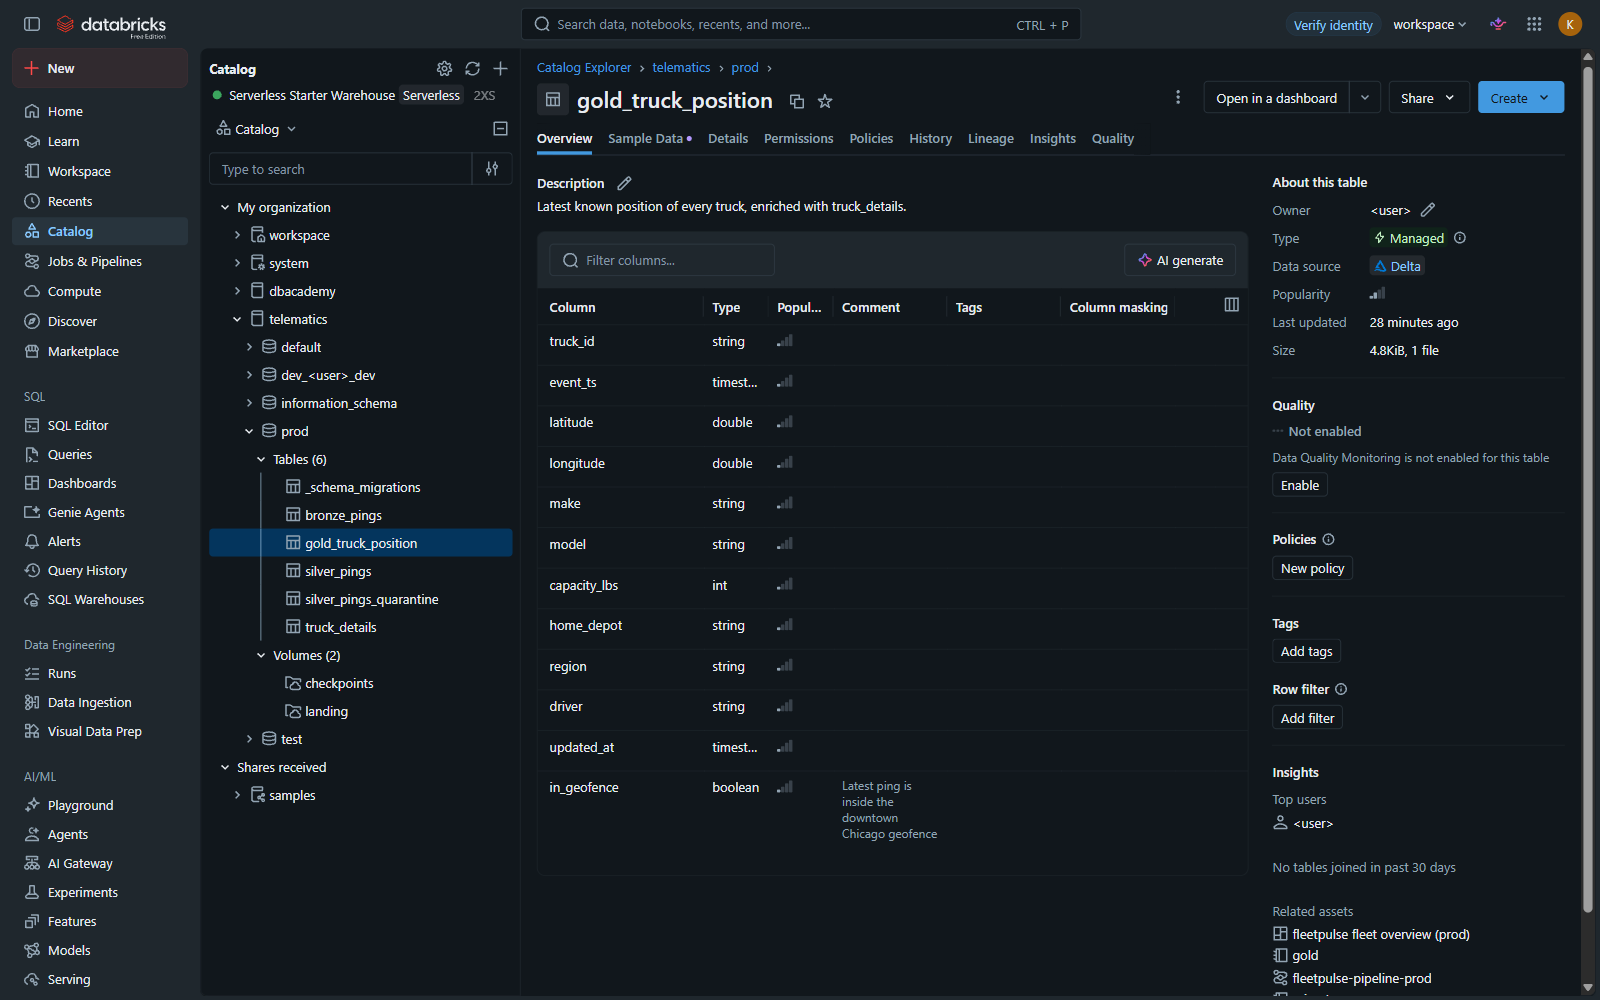
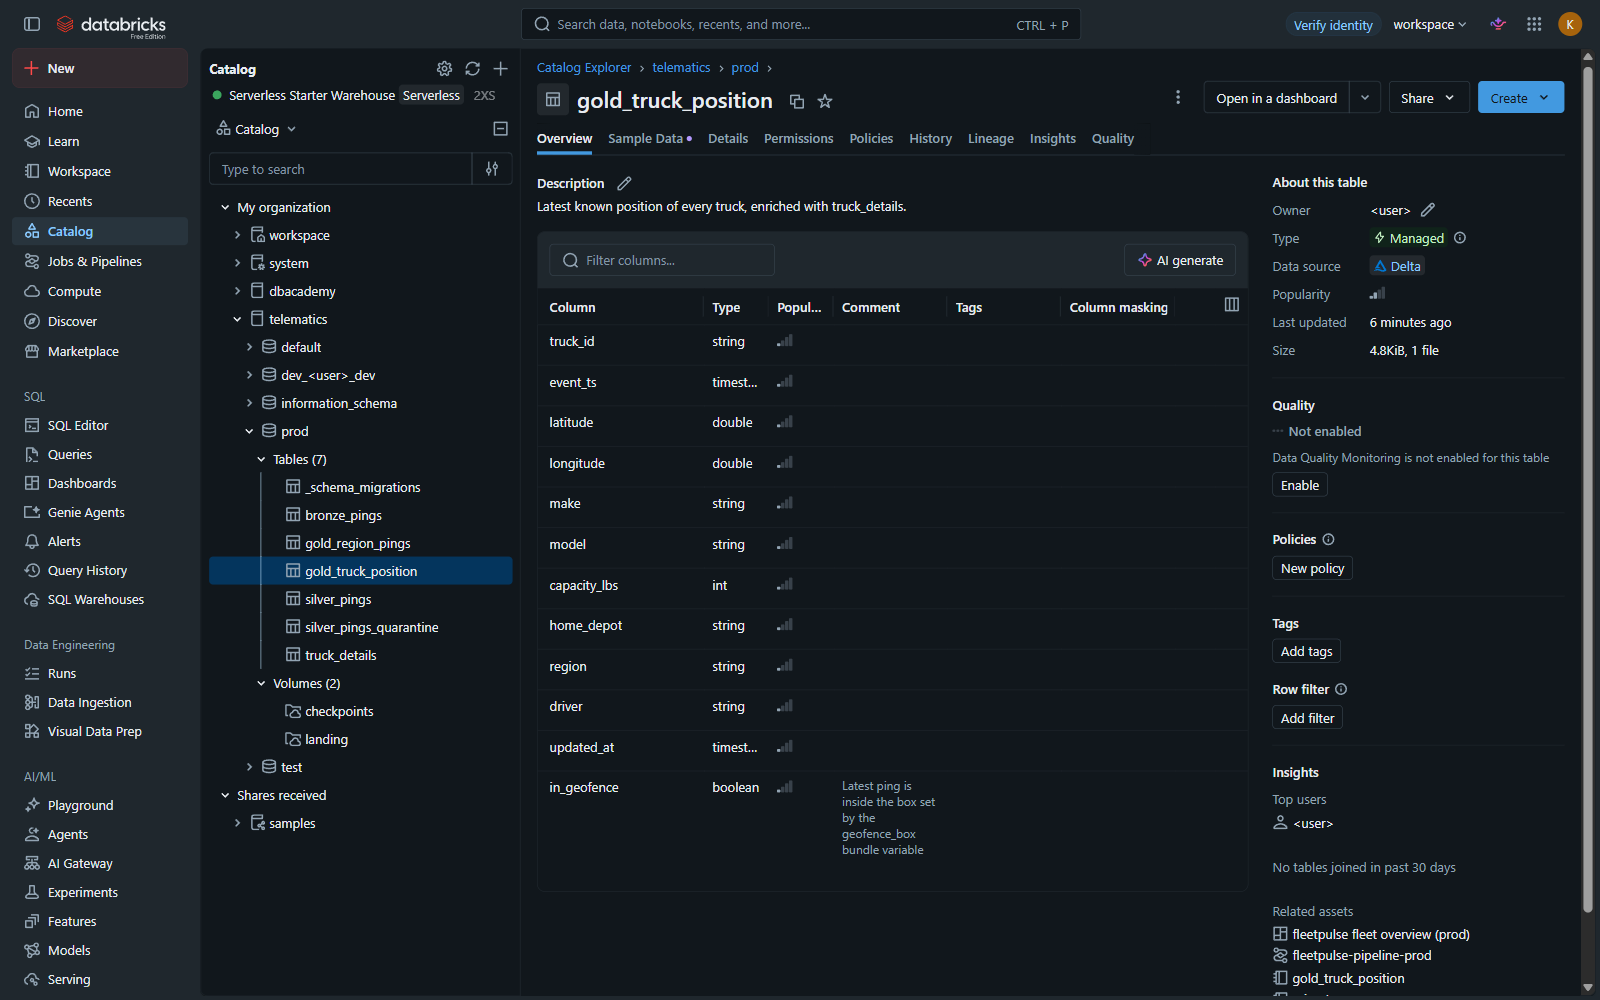
Evidence for V003 and V004, refreshed screenshots
V003 (gold_region_pings) and V004 (in_geofence comment through CI) before/after in every
environment. Evidence tables keep their column widths after redaction, and job_run_id is the field
the CLI printed. Screenshots retaken after V004 reached prod, times in US Eastern.

diff --git a/docs/README.md b/docs/README.md
@@ -1,37 +1,51 @@
 # Evidence
 
-CLI output captured while building and promoting the bundle. Workspace host and user are redacted,
-times are US Eastern.
+CLI output captured while building and promoting the bundle, and screenshots of the workspace.
+Workspace host and user are redacted, times are US Eastern.
+
+## Schema changes reaching prod
+
+| Change | How it reached prod | Proof |
+| ------ | ------------------- | ----- |
+| V002: `in_geofence` added to gold | deploy + run, dev, then test, then prod | [08](evidence/08-dev-v002-before.txt) [09](evidence/09-dev-v002-run.txt) [10](evidence/10-dev-v002-after.txt) [12](evidence/12-test-v002.txt) [11](evidence/11-prod-v002-before.txt) [13](evidence/13-prod-v002.txt) [15](evidence/15-prod-v002-after.txt) |
+| V003: `gold_region_pings` table | CLI deploy + run in dev, test and prod; the same commit then went through PR #1 and PR #2 with no-op CI deploys | [18](evidence/18-dev-v003.txt) [19](evidence/19-test-v003.txt) [20](evidence/20-prod-v003.txt) |
+| V004: `in_geofence` column comment | CI only: push to `dev`, PR #3 `dev → test`, PR #4 `test → main`; each merge deployed and ran the pipeline | [22](evidence/22-v004-before.txt) [23](evidence/23-v004-after-ci.txt) |
+
+In every case prod's table history shows the change made by the pipeline job, not by a person.
+
+## CLI logs
 
 | File | What it shows |
-|------|---------------|
+| ---- | ------------- |
 | [00-cli-version](evidence/00-cli-version.txt) | Databricks CLI used for every deploy |
 | [01-dev-deploy](evidence/01-dev-deploy.txt) | first `validate` + `deploy` of dev: schema, volumes and jobs created |
 | [02](evidence/02-dev-simulator.txt), [03](evidence/03-dev-pipeline.txt) | simulator and pipeline runs in dev |
 | [04-dev-checks](evidence/04-dev-checks.txt) | 20 files, 250 bronze rows, 210 silver + 20 quarantined (the 20 planted duplicates dropped), 20 trucks in gold joined with `truck_details` |
 | [05-dev-rerun-no-new-data](evidence/05-dev-rerun-no-new-data.txt) | pipeline rerun with nothing new: counts unchanged, silver history still has a single MERGE |
 | [06-test-v001](evidence/06-test-v001.txt), [07-prod-v001](evidence/07-prod-v001.txt) | test and prod at V001: deploy, simulator, pipeline |
-| [08](evidence/08-dev-v002-before.txt), [09](evidence/09-dev-v002-run.txt), [10](evidence/10-dev-v002-after.txt) | V002 in dev (code deployed by CI): before, run, after |
-| [12-test-v002](evidence/12-test-v002.txt) | V002 in test |
-| [11](evidence/11-prod-v002-before.txt), [13](evidence/13-prod-v002.txt), [15](evidence/15-prod-v002-after.txt) | V002 in prod: before (V1, 11 columns), deploy + run, after (V2, `in_geofence`, and `DESCRIBE HISTORY` with `ADD COLUMNS` / `UPDATE` done by the pipeline job) |
 | [14-dev-stop-restart](evidence/14-dev-stop-restart.txt) | run cancelled during silver after bronze took 10 new files; the rerun resumes from the checkpoint with one MERGE of 89 rows, and bronze 594 = silver 494 + quarantine 50 + 50 planted duplicates |
 | [16-test](evidence/16-test-dashboard-deploy.txt), [17-prod](evidence/17-prod-dashboard-deploy.txt) | dashboard deployed to test and prod |
+| [18](evidence/18-dev-v003.txt), [19](evidence/19-test-v003.txt), [20](evidence/20-prod-v003.txt) | V003 applied, and the window table's totals equal silver's row count: 698, 550, 407 |
+| [21-dev-window-variable](evidence/21-dev-window-variable.txt) | window size changed with `--var region_window_minutes=10` only: the next run backfilled 10-minute windows next to the 5-minute ones, both totalling 698 |
+| [22](evidence/22-v004-before.txt), [23](evidence/23-v004-after-ci.txt) | V004 before and after in every environment, with the CI run ids |
 
 ## Screenshots
 
-Taken from the workspace after the V002 promotion. The user is redacted, times are US Eastern.
-
 | | |
-|---|---|
-| [01 jobs](screenshots/01-jobs.png) | all six jobs (pipeline and simulator for dev, test, prod), deployed by the bundle; test/prod schedules paused to save Free Edition quota |
-| [02 prod pipeline](screenshots/02-prod-pipeline-tasks.png) | task graph, "Connected to Declarative Automation Bundles", every-15-minute schedule, job parameters |
+| --- | --- |
+| [01 jobs](screenshots/01-jobs.png) | all six jobs (pipeline and simulator for dev, test, prod), deployed by the bundle; test/prod schedules paused for the Free Edition quota |
+| [02 prod pipeline](screenshots/02-prod-pipeline-tasks.png) | task graph, "Connected to Declarative Automation Bundles", schedule, job parameters |
 | [03 prod runs](screenshots/03-prod-pipeline-runs.png) | run history of the prod pipeline |
-| [04 prod run](screenshots/04-prod-run-v002.png) | the run that applied V002: migrate, then seed/bronze, silver, gold |
-| [05 gold history](screenshots/05-prod-gold-history.png) | `ADD COLUMNS` and the backfill `UPDATE` on prod gold, written by that run |
-| [06 migrations ledger](screenshots/06-prod-schema-migrations.png) | `_schema_migrations` in prod: V1 and V2 with checksums |
-| [07 gold columns](screenshots/07-prod-gold-columns.png) | gold after V002, including `in_geofence` |
-| [08 gold sample](screenshots/08-prod-gold-sample.png) | gold rows joined with `truck_details` |
+| [04 V002 run](screenshots/04-prod-run-v002.png) | the prod run that applied V002 (before the second gold table existed) |
+| [05 V004 run](screenshots/05-prod-run-v004-ci.png) | the prod run CI started after PR #4: migrate, seed/bronze, silver, both gold tables (runs started through the API by `bundle run` show as "Manually") |
+| [06 migrations ledger](screenshots/06-prod-schema-migrations.png) | SQL editor: `_schema_migrations` in prod, V1 to V4 with checksums |
+| [07 gold columns](screenshots/07-prod-gold-columns.png) | gold columns, including `in_geofence` and its V004 comment |
+| [08 gold query](screenshots/08-prod-gold-query.png) | SQL editor: gold rows joined with `truck_details` |
 | [09 dashboard](screenshots/09-prod-dashboard.png) | fleet overview dashboard in prod |
-| [10 CI](screenshots/10-github-actions.png) | GitHub Actions runs (taken when CI deployed only dev; it now maps `dev`, `test`, `main` to dev, test, prod) |
+| [10 CI runs](screenshots/10-github-actions.png) | GitHub Actions: pull request checks and deploy-and-run on merge |
+| [11 CLI deploy](screenshots/11-cli-deploy-all-targets.png) | `bundle validate` and `bundle deploy` from the CLI to dev, test and prod |
+| [12 gold history](screenshots/12-prod-gold-history-query.png) | SQL editor: prod gold history, every schema change made by the pipeline job |
+| [13 region windows](screenshots/13-prod-region-pings-query.png) | SQL editor: `gold_region_pings`, total pings equal silver's row count |
+| [14 pull requests](screenshots/14-github-pull-requests.png) | pull requests #1 to #4 (V003 and V004 promotions), all merged |
 
 ![prod dashboard](screenshots/09-prod-dashboard.png)
